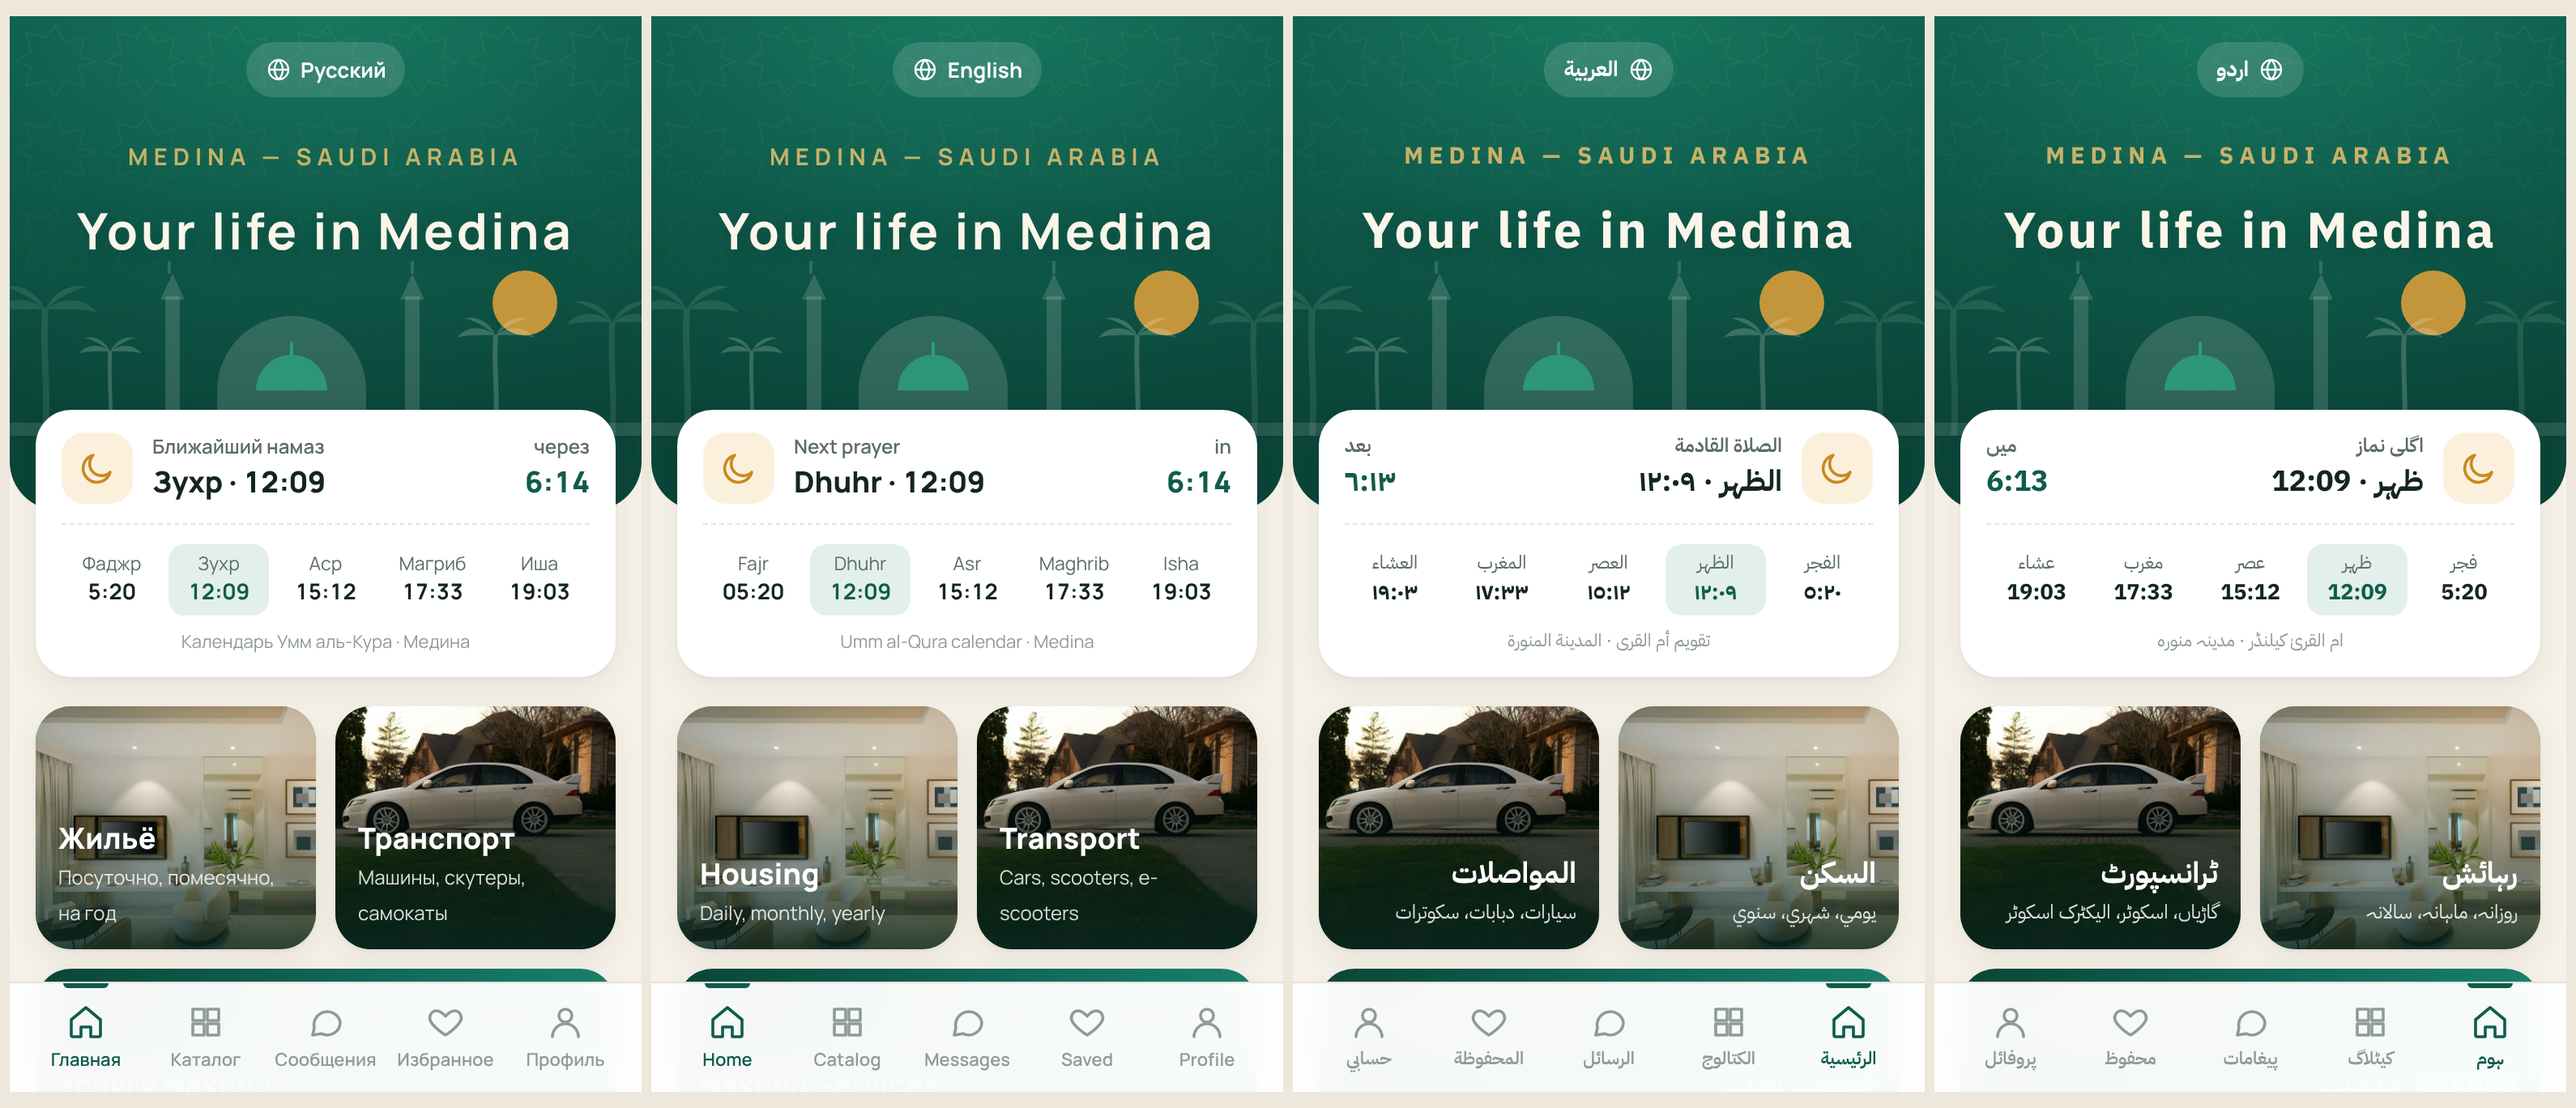
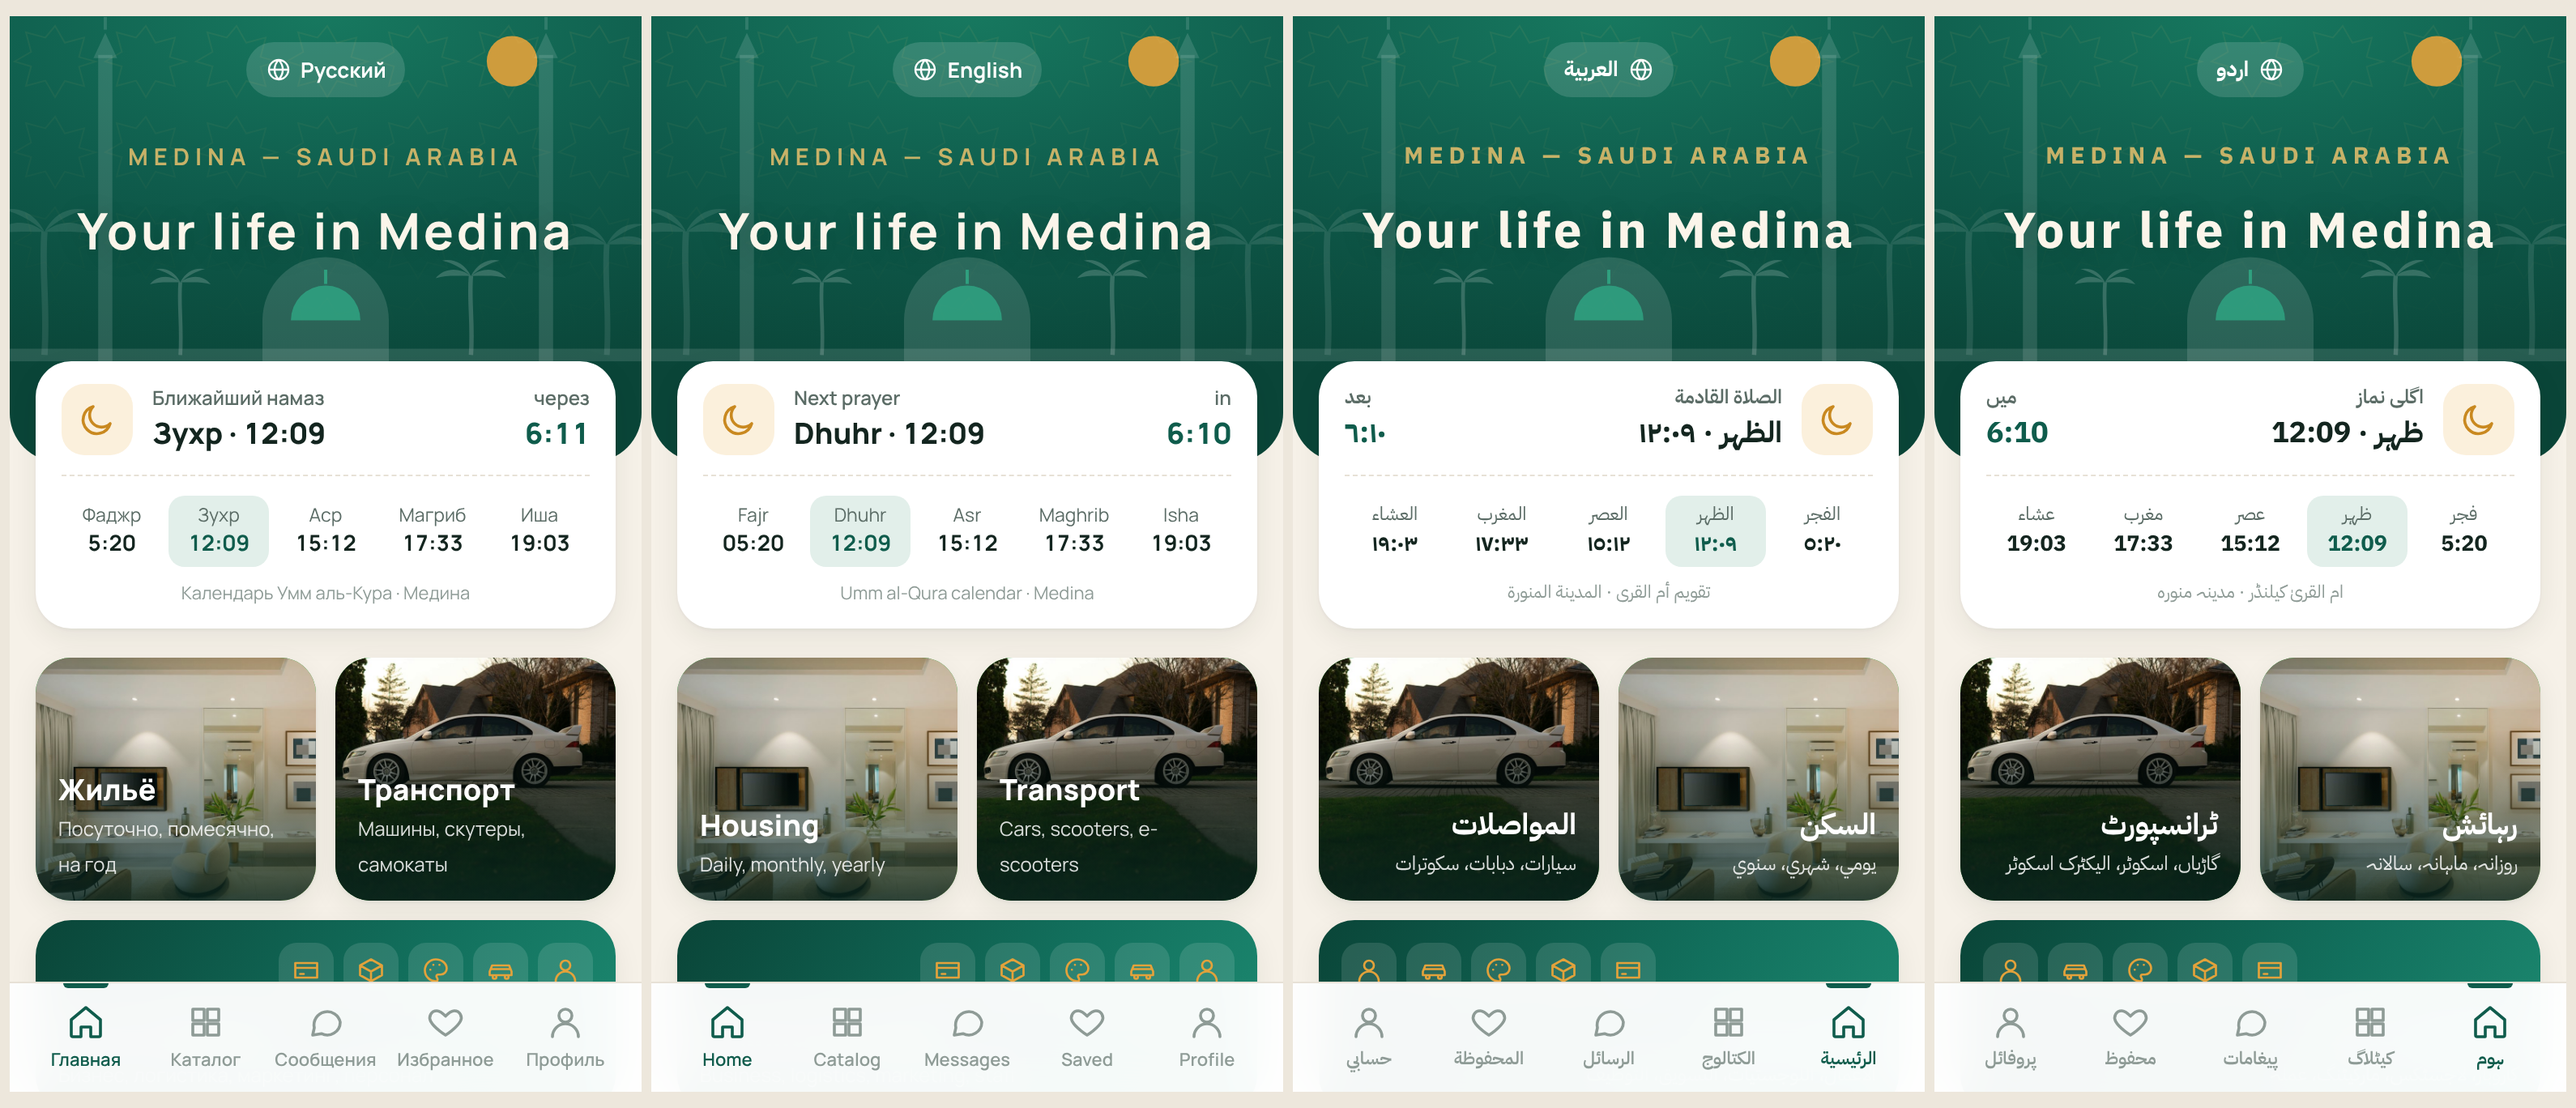
Draft: tall header background — minarets to the top, sun level with the language button — not published
Claude-Session: https://claude.ai/code/session_01BhYsyRGkijV8fKCZbgF8Zs

diff --git a/nakhlio/app.js b/nakhlio/app.js
@@ -78,6 +78,17 @@ const ic = (n, cls) => `<svg class="${cls || ''}" viewBox="0 0 24 24" fill="${FI
 /* ---------- brand & illustrations ---------- */
 const logo = (bg) => `<svg viewBox="0 0 64 64" aria-hidden="true"><rect width="64" height="64" rx="18" fill="${bg || '#0F5C4C'}"/><path d="M15 54V30a17 17 0 0 1 34 0v24z" fill="#F6F1E8"/><g fill="none" stroke="#0F5C4C" stroke-width="2.6" stroke-linecap="round"><path d="M32 52V31"/><path d="M32 31c-4-4-10-4.5-14-1.5"/><path d="M32 31c4-4 10-4.5 14-1.5"/><path d="M32 31c-3-6-8-8.5-12.5-8"/><path d="M32 31c3-6 8-8.5 12.5-8"/><path d="M32 31c-.5-6 .5-10 0-12.5"/></g><circle cx="29" cy="35" r="2.3" fill="#E3A23B"/><circle cx="35" cy="35" r="2.3" fill="#E3A23B"/><circle cx="32" cy="38.5" r="2.3" fill="#E3A23B"/></svg>`;
 const palmShape = (x, h, s) => `<g transform="translate(${x} ${120 - h}) scale(${s})"><path d="M0 ${h / s} C2 ${h / s * .6} -2 ${h / s * .3} 0 0" stroke="currentColor" stroke-width="4" fill="none"/><path d="M0 0c-10-8-24-8-32 2 10-3 20-2 32-2zM0 0c10-8 24-8 32 2-10-3-20-2-32-2zM0 0c-6-12-16-16-26-14 9 2 18 7 26 14zM0 0c6-12 16-16 26-14-9 2-18 7-26 14z" fill="currentColor"/></g>`;
+const skylineTall = () => `<svg class="sky sky-tall" viewBox="0 0 400 240" preserveAspectRatio="xMidYMax slice" aria-hidden="true">
+  <circle cx="318" cy="34" r="16" fill="#E3A23B" opacity=".9"/>
+  <g fill="rgba(255,255,255,.13)">
+    <rect x="56" y="30" width="9" height="210"/><path d="M53 32h15l-7.5-16z"/><rect x="59.5" y="6" width="2" height="8"/>
+    <rect x="335" y="30" width="9" height="210"/><path d="M332 32h15l-7.5-16z"/><rect x="338.5" y="6" width="2" height="8"/>
+    <path d="M160 224V198a40 40 0 0 1 80 0v26z"/>
+  </g>
+  <path d="M178 198a22 22 0 0 1 44 0z" fill="#2FA07F" opacity=".9"/><rect x="199" y="166" width="2" height="9" fill="#2FA07F"/>
+  <g transform="translate(0 100)"><g color="rgba(255,255,255,.10)">${palmShape(22, 78, 1)}${palmShape(378, 70, .9)}</g><g color="rgba(255,255,255,.18)">${palmShape(292, 50, .7)}${palmShape(108, 46, .6)}</g></g>
+  <rect x="0" y="216" width="400" height="8" fill="rgba(255,255,255,.12)"/>
+</svg>`;
 const skyline = () => `<svg class="sky" viewBox="0 0 400 120" preserveAspectRatio="xMidYMax slice" aria-hidden="true">
   <circle cx="318" cy="38" r="20" fill="#E3A23B" opacity=".9"/>
   <g color="rgba(255,255,255,.10)">${palmShape(22, 78, 1)}${palmShape(372, 70, .9)}</g>
@@ -268,7 +279,7 @@ V.home = () => {
   const prow = ['fajr', 'dhuhr', 'asr', 'maghrib', 'isha'].map(k => `<div class="${k === np.nx ? 'on' : ''}">${t(k)}<b class="num">${hm(np.pt[k])}</b></div>`).join('');
   const nextDay = DAYS.map(d => ({ d, left: Math.ceil((new Date(d.date + 'T00:00:00+03:00') - Date.now()) / 864e5) })).filter(x => x.left >= 0)[0];
   return { tabs: true, raw: true, html: `
-  <div class="hero hero3">${skyline()}<div class="hero3-pat" aria-hidden="true"></div>
+  <div class="hero hero3">${skylineTall()}<div class="hero3-pat" aria-hidden="true"></div>
     <button class="lang-pill hero2-lang" data-act="go" data-v="lang">${ic('globe')}${esc((LANGS.find(l => l.code === lang) || {}).name)}</button>
     <div class="hero3-c hero4" dir="ltr" lang="en">
       <p class="hero4-loc">Medina — Saudi Arabia</p>

diff --git a/magaam/index.html b/magaam/index.html
@@ -1017,7 +1017,7 @@ html,body{max-width:100%;overflow-x:clip}
 .hero3-ayah{margin:0;max-width:34ch}.hero3-ayah blockquote{margin:0;font-family:'Amiri',serif;font-size:25px;line-height:1.7;color:#F0C46E;font-weight:700}
 .hero3-ayah figcaption{font-size:14px;line-height:1.45;color:rgba(251,245,234,.85);margin-top:2px}.hero3-ayah cite{display:block;font-style:normal;font-size:11.5px;letter-spacing:.6px;color:rgba(240,196,110,.8);margin-top:4px}
 .hero3-only{display:inline-flex;align-items:center;gap:6px;margin-top:16px;padding:7px 14px;border-radius:20px;background:rgba(10,69,56,.55);border:1px solid rgba(240,196,110,.35);font-size:13px;font-weight:600;color:#FBF5EA;backdrop-filter:blur(6px);-webkit-backdrop-filter:blur(6px)}.hero3-only svg{width:15px;height:15px;color:#F0C46E}
-.hero.hero3:has(.hero4){padding-bottom:150px}
+.hero.hero3:has(.hero4){padding-bottom:120px}
 .hero4{padding-top:26px}
 .hero4-big{font-family:inherit;font-weight:700;font-size:31px;line-height:1.15;margin:2px 0 4px;color:#FBF5EA;letter-spacing:.06em;text-shadow:0 2px 18px rgba(0,0,0,.18)}
 .hero4-ayah{margin:0;max-width:32ch}.hero4-ayah blockquote{margin:0;font-family:'Amiri',serif;font-size:26px;line-height:1.6;color:#F0C46E;font-weight:700}.hero4-ayah figcaption{font-family:'Playfair Display','Amiri',Georgia,serif;font-style:italic;font-size:15px;line-height:1.45;color:rgba(251,245,234,.88);margin-top:2px}.hero4-ayah cite{display:block;font-style:normal;font-size:11.5px;letter-spacing:.14em;text-transform:uppercase;color:rgba(240,196,110,.75);margin-top:6px}
@@ -1028,7 +1028,7 @@ html,body{max-width:100%;overflow-x:clip}
 .hero4-ar{margin:8px 0 0;font-family:'Amiri',serif;font-size:18px;font-weight:700;color:rgba(251,245,234,.88);letter-spacing:0}
 [dir=rtl] .hero4-ar{font-size:20px;color:#F0C46E}
 
-.hero.hero3:has(.hero4) .sky{bottom:46px}
+.hero.hero3:has(.hero4) .sky{bottom:46px;width:100%;height:calc(100% - 46px);opacity:1}
 </style>
 </head>
 <body>

diff --git a/nakhlio/index.html b/nakhlio/index.html
@@ -1008,7 +1008,7 @@ html,body{max-width:100%;overflow-x:clip}
 .hero3-ayah{margin:0;max-width:34ch}.hero3-ayah blockquote{margin:0;font-family:'Amiri',serif;font-size:25px;line-height:1.7;color:#F0C46E;font-weight:700}
 .hero3-ayah figcaption{font-size:14px;line-height:1.45;color:rgba(251,245,234,.85);margin-top:2px}.hero3-ayah cite{display:block;font-style:normal;font-size:11.5px;letter-spacing:.6px;color:rgba(240,196,110,.8);margin-top:4px}
 .hero3-only{display:inline-flex;align-items:center;gap:6px;margin-top:16px;padding:7px 14px;border-radius:20px;background:rgba(10,69,56,.55);border:1px solid rgba(240,196,110,.35);font-size:13px;font-weight:600;color:#FBF5EA;backdrop-filter:blur(6px);-webkit-backdrop-filter:blur(6px)}.hero3-only svg{width:15px;height:15px;color:#F0C46E}
-.hero.hero3:has(.hero4){padding-bottom:150px}
+.hero.hero3:has(.hero4){padding-bottom:120px}
 .hero4{padding-top:26px}
 .hero4-big{font-family:inherit;font-weight:700;font-size:31px;line-height:1.15;margin:2px 0 4px;color:#FBF5EA;letter-spacing:.06em;text-shadow:0 2px 18px rgba(0,0,0,.18)}
 .hero4-ayah{margin:0;max-width:32ch}.hero4-ayah blockquote{margin:0;font-family:'Amiri',serif;font-size:26px;line-height:1.6;color:#F0C46E;font-weight:700}.hero4-ayah figcaption{font-family:'Playfair Display','Amiri',Georgia,serif;font-style:italic;font-size:15px;line-height:1.45;color:rgba(251,245,234,.88);margin-top:2px}.hero4-ayah cite{display:block;font-style:normal;font-size:11.5px;letter-spacing:.14em;text-transform:uppercase;color:rgba(240,196,110,.75);margin-top:6px}
@@ -1019,7 +1019,7 @@ html,body{max-width:100%;overflow-x:clip}
 .hero4-ar{margin:8px 0 0;font-family:'Amiri',serif;font-size:18px;font-weight:700;color:rgba(251,245,234,.88);letter-spacing:0}
 [dir=rtl] .hero4-ar{font-size:20px;color:#F0C46E}
 
-.hero.hero3:has(.hero4) .sky{bottom:46px}
+.hero.hero3:has(.hero4) .sky{bottom:46px;width:100%;height:calc(100% - 46px);opacity:1}
 </style>
 </head>
 <body>
